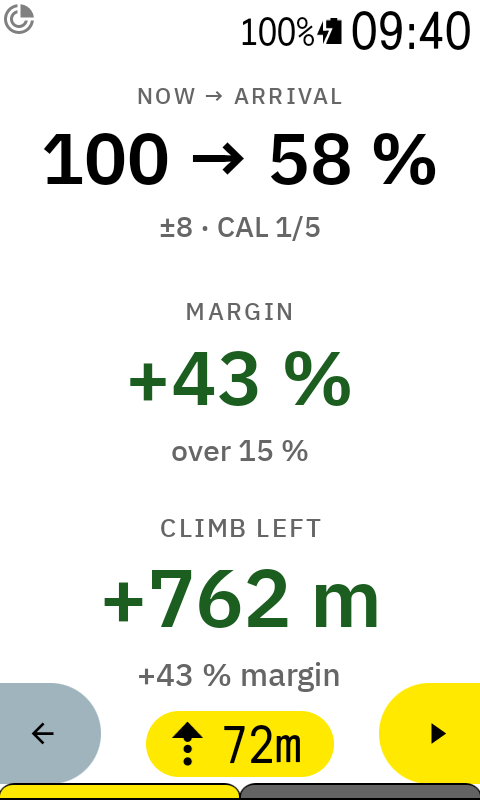
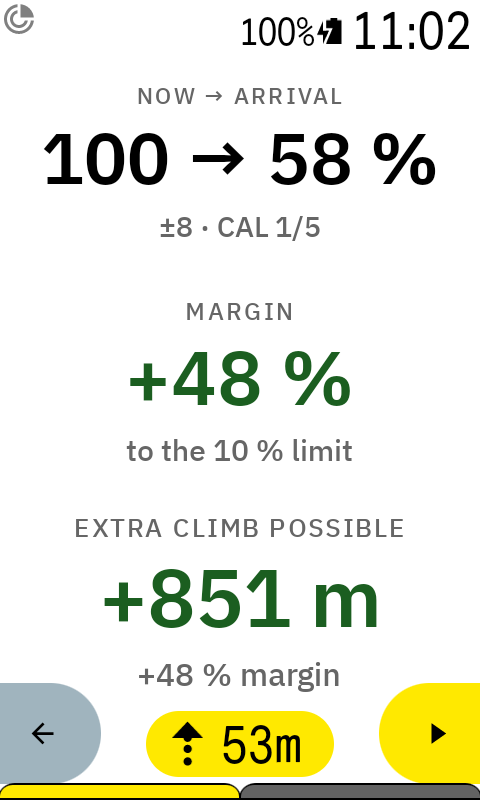
boschRange: clearer labels, alert threshold defaults to 10 %
"CLIMB LEFT" read as the ascent still to ride: now "EXTRA CLIMB POSSIBLE".
"MARGIN over 15 %" did not say what 15 was: now "MARGIN TO 10 % LIMIT",
and the default threshold is 10 %, the Bosch reserve.

Claude-Session: https://claude.ai/code/session_01JZj55SWxgeCuYPsXtstx2d

diff --git a/boschrange/src/main/kotlin/com/anpaiss/boschrange/RangePageDataType.kt b/boschrange/src/main/kotlin/com/anpaiss/boschrange/RangePageDataType.kt
@@ -27,7 +27,7 @@ import kotlinx.coroutines.launch
  * BetterETA dashboard: black cells, grey caption on top, big number.
  *
  *   NOW → ARRIVAL        "100 → 58"             caption carries the band and the calibration state
- *   MARGIN | CLIMB LEFT  "+43 %" | "+762 m"     green when the route fits, red when it does not
+ *   MARGIN TO 10 % LIMIT | EXTRA CLIMB POSSIBLE  "+43 %" | "+762 m"  green when the route fits, red when it does not
  *   TO GO  | SPENT       "21.5 km" | "123 Wh"   (START "100 %" planned, before the ride)
  *   footer               last entry, s, rides, surface state
  *
@@ -130,9 +130,9 @@ class RangePageDataType(
         val a = if (arrival == null) Cell("BATTERY NOW  ·  no route", "%.0f %%".format(now))
             else Cell("NOW → ARRIVAL %%  ·  ±%.0f  ·  %s".format(s.halfBandPct, cal), "%.0f → %.0f".format(now, arrival))
         val b1 = if (arrival == null) Cell("MARGIN", "--")
-            else Cell("MARGIN over ${s.thresholdPct} %", "%+d %%".format(Math.round(s.marginPct)), if (s.marginPct >= 0.0) Tone.OK else Tone.BAD)
-        val b2 = if (arrival == null) Cell("CLIMB LEFT", "--")
-            else Cell("CLIMB LEFT", "%+d m".format(Math.round(s.extraClimbM)), if (s.extraClimbM >= 0.0) Tone.OK else Tone.BAD)
+            else Cell("MARGIN TO ${s.thresholdPct} % LIMIT", "%+d %%".format(Math.round(s.marginPct)), if (s.marginPct >= 0.0) Tone.OK else Tone.BAD)
+        val b2 = if (arrival == null) Cell("EXTRA CLIMB POSSIBLE", "--")
+            else Cell("EXTRA CLIMB POSSIBLE", "%+d m".format(Math.round(s.extraClimbM)), if (s.extraClimbM >= 0.0) Tone.OK else Tone.BAD)
         val c1 = if (arrival == null) Cell("TO GO", "--")
             else Cell("TO GO  ·  D+%.0f m".format(s.remainingAscentM), "%.1f km".format(s.remainingKm))
         val c2 = if (s.rideOpen) Cell("SPENT  ·  %.0f %%".format(s.whEstimated / s.capacityWh * 100.0), "%.0f Wh".format(s.whEstimated))

diff --git a/boschrange/src/main/kotlin/com/anpaiss/boschrange/RangeFieldDataType.kt b/boschrange/src/main/kotlin/com/anpaiss/boschrange/RangeFieldDataType.kt
@@ -28,8 +28,8 @@ import kotlinx.coroutines.launch
  * same [DebugState] the extension publishes every tick:
  *
  *  - COMPACT      "62 → 31 %"  battery now and predicted at arrival, the half band below
- *  - MARGIN       "+16 %"      arrival minus the alert threshold, green or red
- *  - EXTRA_CLIMB  "+420 m"     ascent the margin would still pay for, green or red
+ *  - MARGIN       "+16 %"      arrival minus the alert threshold ("to the 10 % limit"), green or red
+ *  - EXTRA_CLIMB  "+420 m"     extra ascent the margin would still pay for, green or red
  *
  * Caption, value and sub-caption scale with the cell. A tap opens "Battery
  * now?" ([BatteryTapReceiver]); not in the profile editor preview.
@@ -108,7 +108,7 @@ class RangeFieldDataType(
     }
 
     private fun render(s: DebugState): Face {
-        val caption = when (kind) { Kind.COMPACT -> "NOW → ARRIVAL"; Kind.MARGIN -> "MARGIN"; Kind.EXTRA_CLIMB -> "CLIMB LEFT" }
+        val caption = when (kind) { Kind.COMPACT -> "NOW → ARRIVAL"; Kind.MARGIN -> "MARGIN"; Kind.EXTRA_CLIMB -> "EXTRA CLIMB POSSIBLE" }
         if (!s.enabled && !s.rideOpen) return Face(caption, "OFF", "boschRange off", Tone.NEUTRAL)
         val now = if (s.rideOpen) s.estimatedPct else s.planningPct.toDouble()
         val arrival = s.arrivalPct
@@ -121,7 +121,7 @@ class RangeFieldDataType(
             }
             Kind.MARGIN -> when {
                 arrival == null -> Face(caption, "--", "no route", Tone.NEUTRAL)
-                else -> Face(caption, "%+d %%".format(Math.round(s.marginPct)), "over ${s.thresholdPct} %",
+                else -> Face(caption, "%+d %%".format(Math.round(s.marginPct)), "to the ${s.thresholdPct} % limit",
                     if (s.marginPct >= 0.0) Tone.OK else Tone.BAD)
             }
             Kind.EXTRA_CLIMB -> when {

diff --git a/boschrange/src/main/kotlin/com/anpaiss/boschrange/DebugFieldDataType.kt b/boschrange/src/main/kotlin/com/anpaiss/boschrange/DebugFieldDataType.kt
@@ -61,7 +61,7 @@ data class DebugState(
     val extraClimbM: Double = 0.0,
     val remainingKm: Double = 0.0,
     val remainingAscentM: Double = 0.0,
-    val thresholdPct: Int = 15,
+    val thresholdPct: Int = 10,
     /** Start % the forecast plans from before the ride (tap on a field to change it). */
     val planningPct: Int = 100,
     // Flow screenshots (FATTO on the popups)

diff --git a/boschrange/src/main/kotlin/com/anpaiss/boschrange/Prefs.kt b/boschrange/src/main/kotlin/com/anpaiss/boschrange/Prefs.kt
@@ -23,7 +23,7 @@ class Prefs(ctx: Context) {
 
     /** Alert when the predicted battery at arrival drops below this. */
     var alertThresholdPct: Int
-        get() = sp.getInt(KEY_THRESHOLD, 15)
+        get() = sp.getInt(KEY_THRESHOLD, 10)   // 10 %: the Bosch reserve (Andrea, 19/10)
         set(v) = sp.edit().putInt(KEY_THRESHOLD, v).apply()
 
     /**
